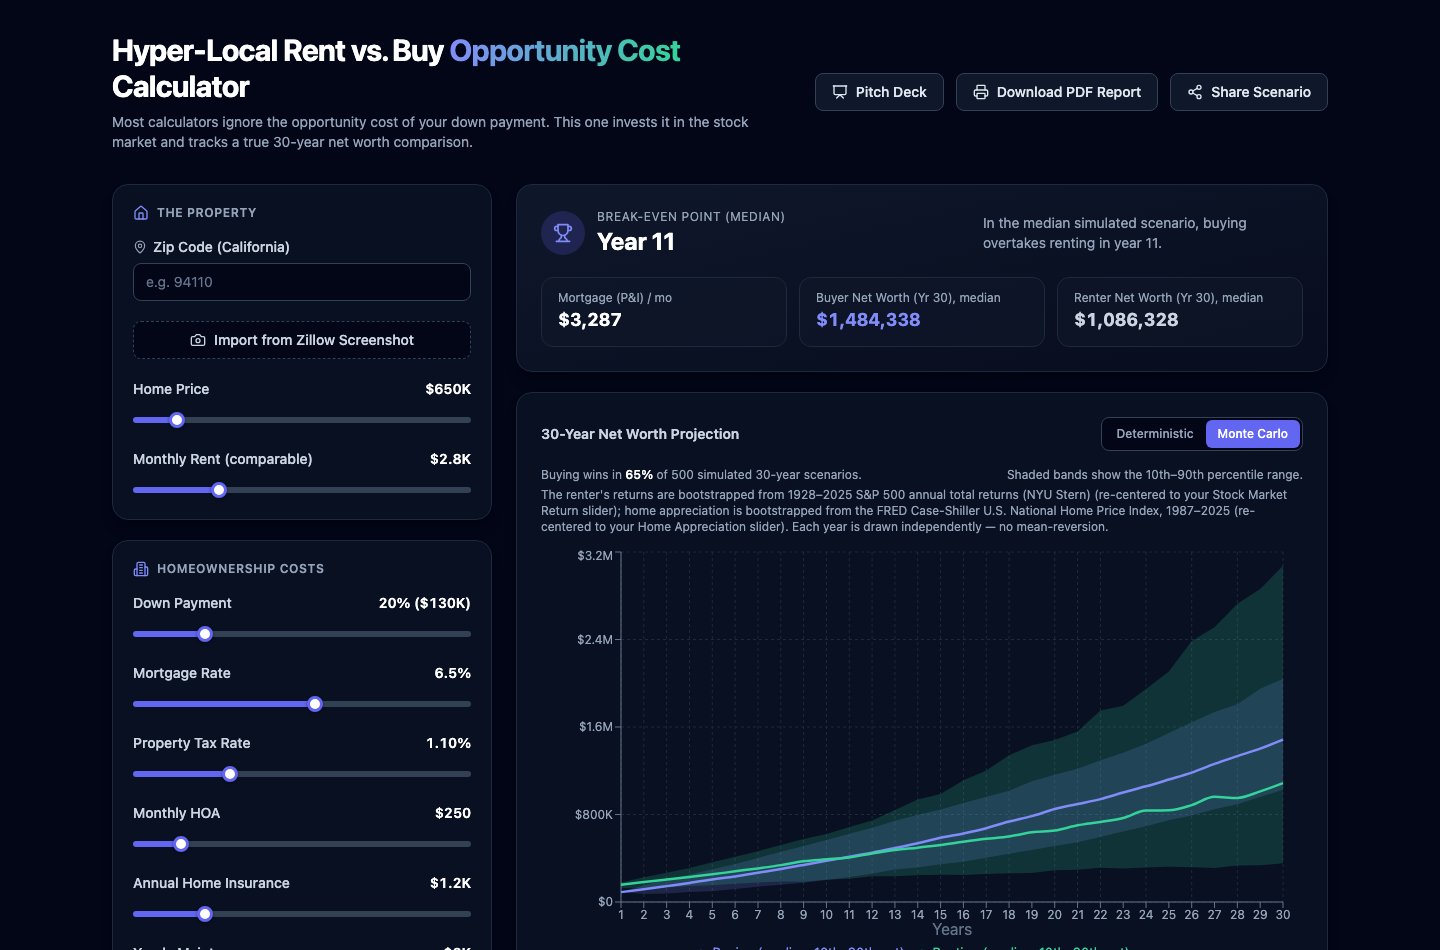
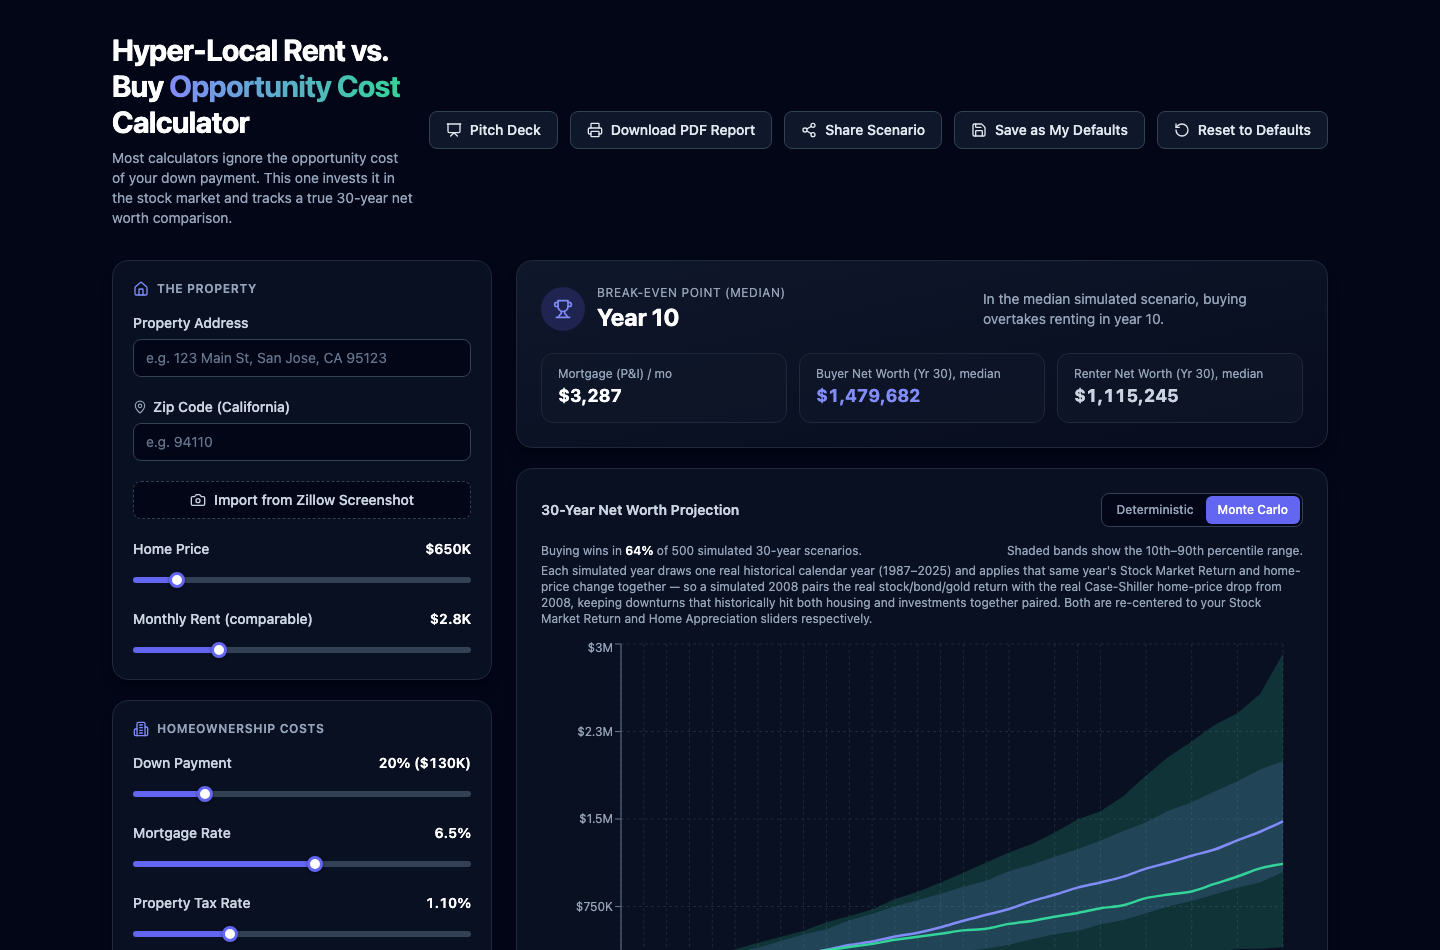
Update presentation decks and screenshots to reflect current features
Refreshes both decks with the correlated Monte Carlo methodology, screenshot
import, saved defaults/reset, property address, and the Google Sheets port,
and re-captures the screenshots from the current UI.

diff --git a/presentation/progression-deck.md b/presentation/progression-deck.md
@@ -205,6 +205,61 @@ behind it. Same rigor, whichever path you're actually weighing.
 
 ---
 
+<h3>The question</h3>
+
+<p class="question">"How do we know a change didn't quietly break the math?"</p>
+
+## A real test suite, not just eyeballing the chart
+
+Every core calculation — mortgage amortization, tax logic, Monte Carlo
+percentiles, zip lookup, screenshot parsing — got automated tests, run in CI
+before every deploy. One of those tests caught a real currency-formatting
+bug that only showed up on the CI server's Node version, before it ever
+reached production.
+
+---
+
+<h3>The question</h3>
+
+<p class="question">"What if a crash year for stocks landed on a calm year for housing in the same simulated trial?"</p>
+
+## Correlated, not just random
+
+The Monte Carlo simulation used to draw the stock return and the home-price
+change for a given year **independently** — so a simulated trial could pair
+2008's stock crash with a historically strong housing year, which never
+actually happened. Now each simulated year draws **one** real historical
+year and applies that year's return and home-price change together, so
+downturns that hit both markets at once stay paired.
+
+---
+
+<h3>The question</h3>
+
+<p class="question">"Can I set my own starting point, and label which property this actually is?"</p>
+
+## Your own defaults, and a way back to them
+
+"Save as My Defaults" remembers your own baseline assumptions in the
+browser; "Reset to Defaults" snaps everything back to it (or the factory
+scenario, if you've never saved one) in one click. A Property Address field
+labels exactly which listing a scenario is for, on screen and on the PDF
+report.
+
+---
+
+<h3>The question</h3>
+
+<p class="question">"Can I use this without the web app at all?"</p>
+
+## The same model, as a spreadsheet
+
+A Google Apps Script builds a live-formula Google Sheet replica — the same
+deterministic engine and the same 500-trial correlated Monte Carlo
+simulation, driven entirely by your own inputs, auditable cell by cell.
+
+---
+
 <!-- _class: lead -->
 
 # Every Feature Started With a Question

diff --git a/presentation/deck.md b/presentation/deck.md
@@ -100,6 +100,14 @@ Type a zip code, get real defaults for that market instantly:
 
 ---
 
+## Skip the Typing
+
+Drop in a screenshot of a Zillow listing — price, rent estimate, property
+tax, and HOA get pulled out automatically via on-device OCR. Nothing
+applies silently: every extracted value is shown for review first.
+
+---
+
 ## One Clear Answer: When Does Buying Win?
 
 - **Break-even year** — the year buying's net worth overtakes renting's
@@ -110,13 +118,29 @@ Type a zip code, get real defaults for that market instantly:
 
 ---
 
+## Pick Your Own Investment
+
+Not everyone would put the down payment in the stock market. Choose:
+
+- **Stocks** — S&P 500
+- **Treasury bonds** — steady, low-volatility
+- **Gold** — no yield, historically choppier
+
+Every option is backed by its own real 1987–2025 historical returns.
+
+---
+
 ## Beyond a Single Guess: Monte Carlo Risk
 
-Markets don't move in a straight line. Toggle to see a **range of outcomes**, not just one:
+Markets don't move in a straight line. Toggle to see a **range of outcomes**, not just one — and a *correlated* one:
 
-- Stock returns bootstrapped from real **1928–2025 S&P 500** history
-- Home appreciation bootstrapped from the real **FRED Case-Shiller index**
-- 500 simulated 30-year scenarios → "buying wins in 67% of outcomes"
+- 500 simulated 30-year scenarios, each year drawn from a real historical
+  calendar year (1987–2025)
+- Stock/bond/gold return AND home-price change for that simulated year come
+  from the **same actual year** — a simulated 2008 pairs the real stock
+  crash with the real housing downturn, not a random mismatch
+- Result: "buying wins in 64% of outcomes" — with a real percentile range,
+  not false precision
 
 ![height:360px](assets/montecarlo.png)
 
@@ -135,11 +159,21 @@ Most calculators stop at property tax. This one models what actually shows up on
 
 ---
 
-## Share Any Scenario Instantly
+## Make It Yours, Share It, Keep It
 
-One click encodes every input — home price, rates, tax settings, chart tab — into a link.
+- **Property Address** — label exactly which listing you're analyzing
+- **Save as My Defaults** — set your own baseline, reset back to it any time
+- **Share Scenario** — one click encodes every input into a link; send
+  someone your exact numbers, no accounts or re-entering data
+- **Download PDF Report** — the full analysis, one click away
 
-**Send someone your exact numbers.** No accounts, no saving, no re-entering data.
+---
+
+## Take It Anywhere: Google Sheets
+
+The full model — deterministic engine and all 500 Monte Carlo trials — also
+runs as a live-formula Google Sheet. Paste in one script, and every number
+recalculates from your own inputs, no web app required.
 
 ---
 